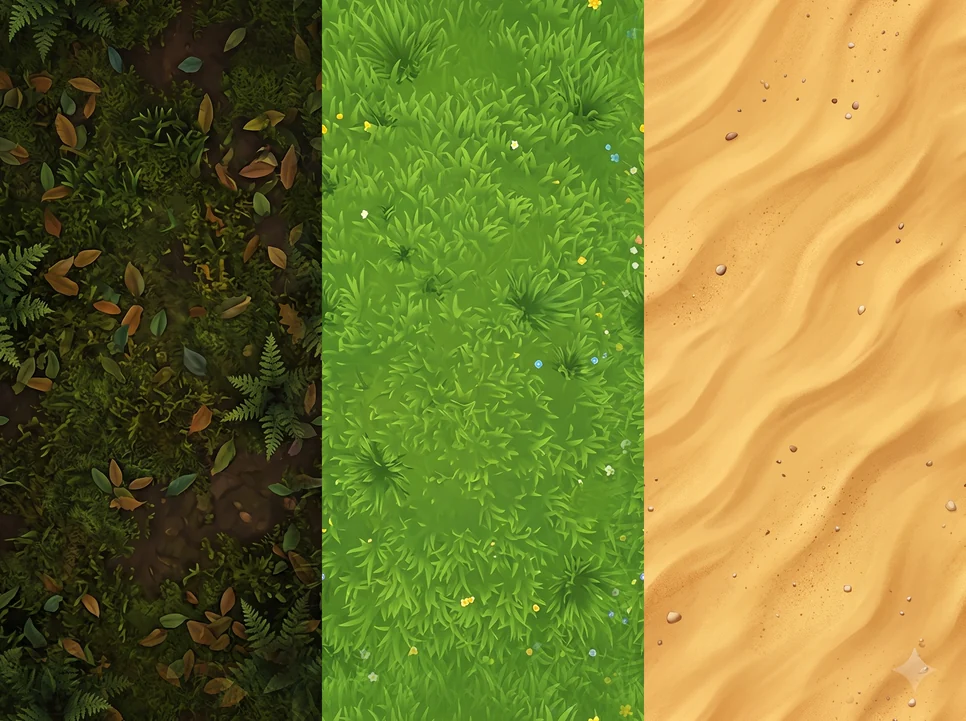
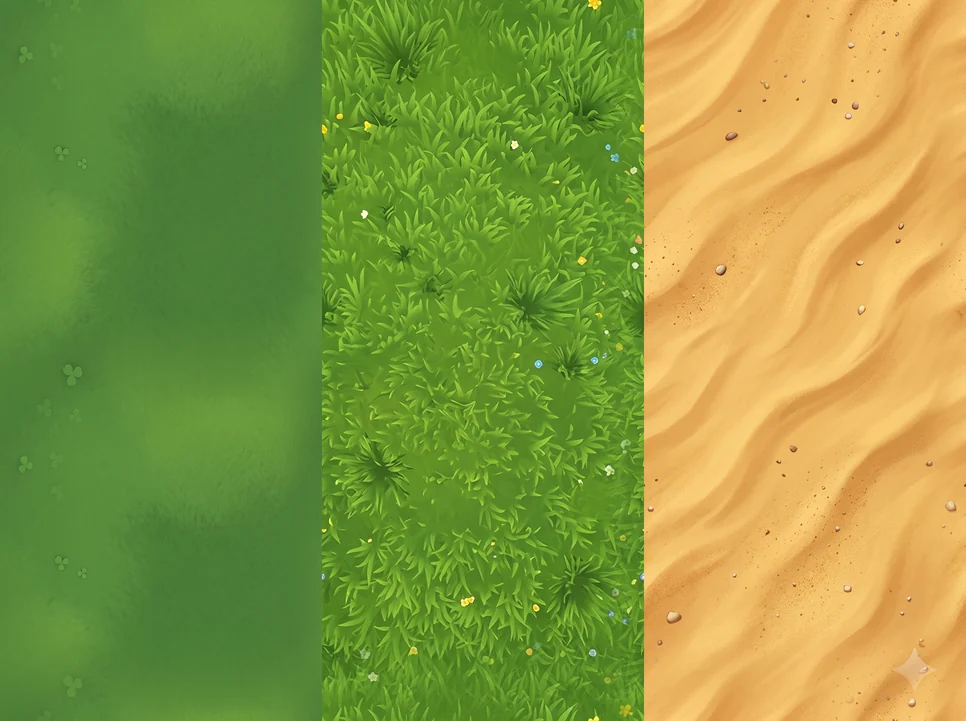
sonic 4: world build (pipeline snapshot _ship/world-1923): sunlit jungle with blue sky + calm jungle ground, WebGL world, ?v=3 on the core scripts and the ad frame

diff --git a/playable/sonic-4-0i7r/_core/zonedash-core.js b/playable/sonic-4-0i7r/_core/zonedash-core.js
@@ -222,7 +222,7 @@
   ];
   // the colour grade (rule 36): mobile games are high-key and saturated. Baked into each zone's pictures ONCE at load, by pixel
   // maths (no per-frame filters, and canvas filters are missing on older iPhones): gamma lifts the shadows, then saturation, then contrast
-  const GRADE = [{ gamma: 1.3, sat: 1.32, con: 1.06 }, { gamma: 1.06, sat: 1.15, con: 1.04 }, { gamma: 1.06, sat: 1.12, con: 1.04 }];
+  const GRADE = [{ gamma: 1.08, sat: 1.06, con: 1.03 }, { gamma: 1.06, sat: 1.15, con: 1.04 }, { gamma: 1.06, sat: 1.12, con: 1.04 }];
   function grade(src, zi, sx = 0, sy = 0, sw = src.width, sh = src.height) {
     const c = document.createElement('canvas'); c.width = sw; c.height = sh; const x = c.getContext('2d'); x.drawImage(src, sx, sy, sw, sh, 0, 0, sw, sh);
     try { const Gd = GRADE[zi], im = x.getImageData(0, 0, sw, sh), d = im.data, lut = new Uint8ClampedArray(256);
@@ -234,7 +234,7 @@
     return c;
   }
   // per-zone texture calm for the GPU path: a mip bias softens fine detail (the jungle floor was busy enough to read as noise, owner 19:09)
-  const GLBIAS = { ground: [1.2, 0.3, 0.3], road: [0.6, 0, 0] };
+  const GLBIAS = { ground: [0.3, 0.3, 0.3], road: [0.6, 0, 0] };   // the jungle floor itself is calm now (regenerated 19:20); the jungle road keeps a little softening
   const GRADED = {};
   function gradePlates() { ['L1a', 'L1b', 'L1c'].forEach((id, zi) => { const im = LAYERS.ART[id]; if (im && !GRADED[id]) { GRADED[id] = 1; LAYERS.ART[id] = grade(im, zi); } }); }
   const SP = {};

diff --git a/playable/sonic-4-0i7r/index.html b/playable/sonic-4-0i7r/index.html
@@ -25,7 +25,7 @@
   <div class="phone">
     <div class="screen interstitial">
       <!-- the unit letterboxes itself to 2:3 on ?embed / ?full and posts iionTap itself (no data-ripple, or taps would ripple twice) -->
-      <div class="ad-slot" data-full="mock.html?full=1&amp;v=2"><iframe src="mock.html?embed=1&amp;v=2" title="2:3 playable ad" allow="autoplay"></iframe><script>{const v=new URLSearchParams(location.search).get("v"),f=document.currentScript.previousElementSibling;if(v&&f&&f.tagName==="IFRAME")f.src=f.getAttribute("src")+(f.getAttribute("src").includes("?")?"&":"?")+"v="+encodeURIComponent(v);}</script></div>
+      <div class="ad-slot" data-full="mock.html?full=1&amp;v=3"><iframe src="mock.html?embed=1&amp;v=3" title="2:3 playable ad" allow="autoplay"></iframe><script>{const v=new URLSearchParams(location.search).get("v"),f=document.currentScript.previousElementSibling;if(v&&f&&f.tagName==="IFRAME")f.src=f.getAttribute("src")+(f.getAttribute("src").includes("?")?"&":"?")+"v="+encodeURIComponent(v);}</script></div>
       <div class="ad-close" aria-hidden="true">×</div>
       <div class="statusbar"><span>9:41</span><span class="icons">
         <svg viewBox="0 0 18 12" fill="#fff" aria-hidden="true"><rect x="0" y="8" width="3" height="4" rx=".8"/><rect x="5" y="5.5" width="3" height="6.5" rx=".8"/><rect x="10" y="3" width="3" height="9" rx=".8"/><rect x="15" y="0" width="3" height="12" rx=".8"/></svg>

diff --git a/playable/sonic-4-0i7r/mock.html b/playable/sonic-4-0i7r/mock.html
@@ -4,7 +4,7 @@
 <meta name="robots" content="noindex,nofollow">
 <title>Sonic 4 · Zone Dash</title>
 <link href="https://fonts.googleapis.com/css2?family=Inter:wght@600;700;800;900&display=swap" rel="stylesheet">
-<script src="_core/draw.js?v=2"></script><script src="_core/layers.js?v=2"></script><script src="_core/glworld.js?v=2"></script><script src="_core/zonedash-core.js?v=2"></script></head>
+<script src="_core/draw.js?v=3"></script><script src="_core/layers.js?v=3"></script><script src="_core/glworld.js?v=3"></script><script src="_core/zonedash-core.js?v=3"></script></head>
 <body><script>
 /* VIEW: chase cam, low behind the runner, as in the video: the horizon at 38%, the course rising to it, the runner at the
    bottom centre with the trail running out of the frame under him. The lanes read by perspective; the hazards come out of
